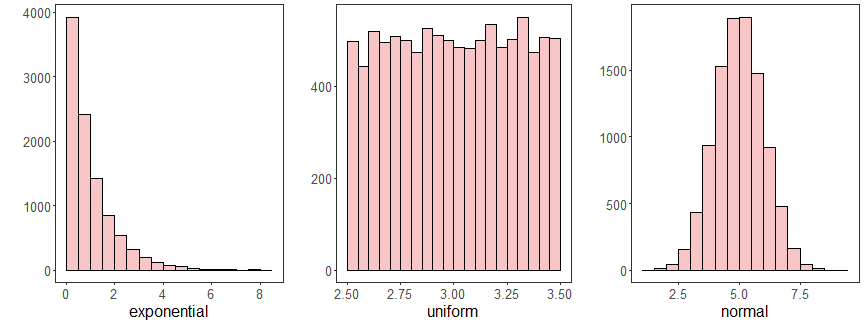
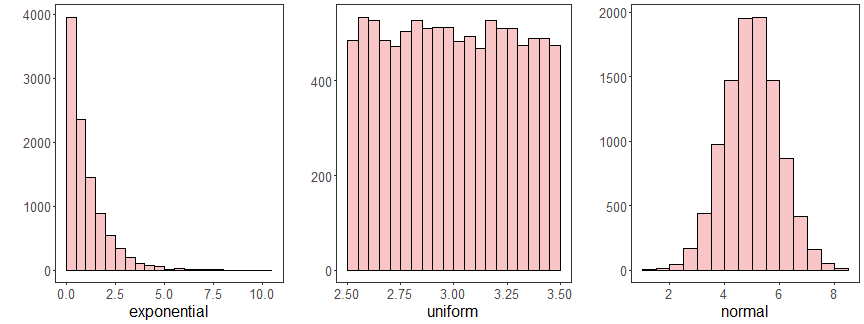
update

diff --git a/examples/3-DataVisualization.md b/examples/3-DataVisualization.md
@@ -170,12 +170,12 @@ head(example)
 
 ```
 ##   exponential  uniform   normal
-## 1   0.3301584 2.602274 3.606884
-## 2   1.8997733 2.631121 5.785216
-## 3   0.2065533 3.164524 3.948160
-## 4   3.5879583 2.909608 6.626982
-## 5   3.0470235 2.758984 3.367393
-## 6   0.1870096 3.055619 3.345107
+## 1   0.7602626 3.167906 5.248852
+## 2   0.8937471 2.817325 4.628489
+## 3   0.3923588 2.951471 5.144646
+## 4   0.3631717 2.811029 6.366776
+## 5   1.2369073 3.201286 4.894996
+## 6   1.5141799 2.612590 6.302659
 ```
 
 
@@ -224,3 +224,43 @@ grid.arrange(grfe, grfu, grfn, ncol=3)
 ```
 
 ![plot of chunk unnamed-chunk-16](fig/3-DataVisualization/unnamed-chunk-16-1.png)
+
+``` r
+#### Density plot
+```
+
+``` r
+{
+library(dplyr)
+data <- example |> select(normal)
+#head(data)
+grf <- plot_density(data, label_x = "normal", color=colors[1]) + font
+plot(grf) 
+}
+```
+
+```
+## Using  as id variables
+```
+
+![plot of chunk unnamed-chunk-17](fig/3-DataVisualization/unnamed-chunk-17-1.png)
+
+``` r
+#### Box plot
+```
+
+``` r
+{
+library(dplyr)
+data <- example |> select(normal)
+#head(data)
+grf <- plot_boxplot(data, label_x = "normal", color=colors[1]) + font
+plot(grf) 
+}
+```
+
+```
+## Using  as id variables
+```
+
+![plot of chunk unnamed-chunk-18](fig/3-DataVisualization/unnamed-chunk-18-1.png)
